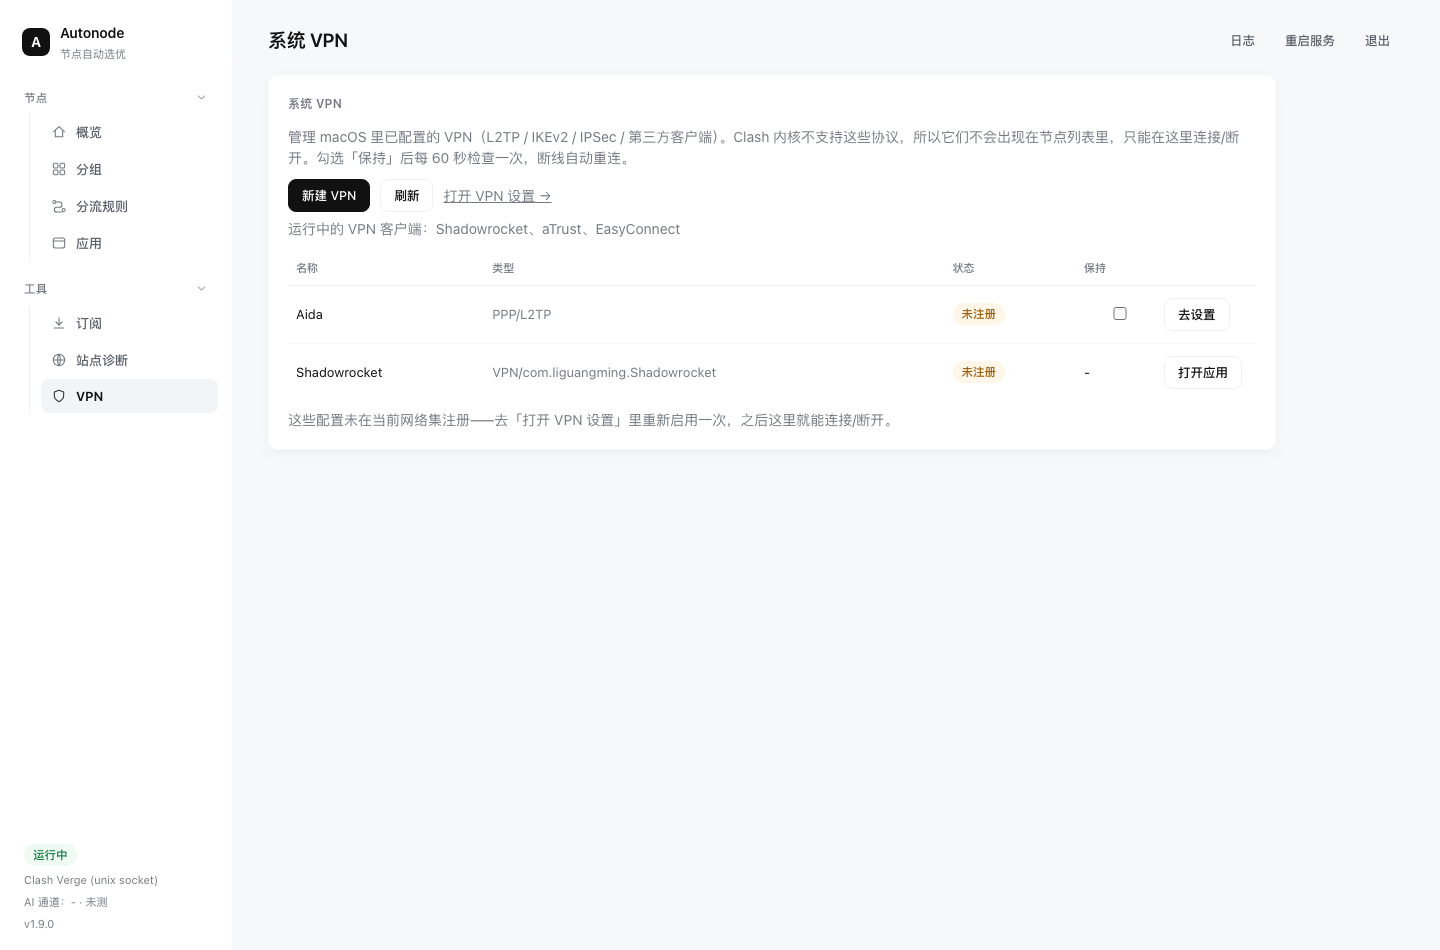
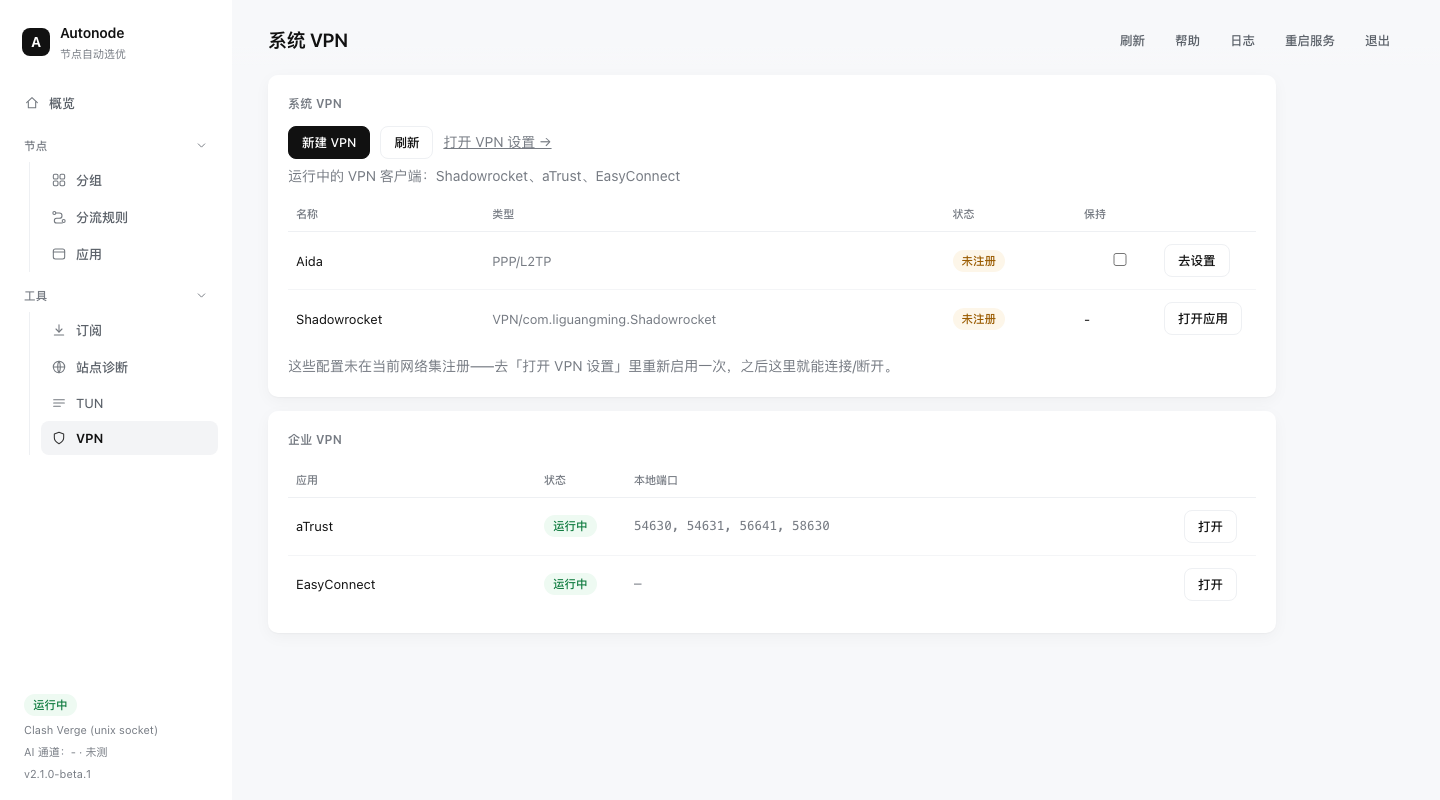
feat(beta): 企业 VPN 状态感知（aTrust / EasyConnect / FortiClient）

diff --git a/autonode.py b/autonode.py
@@ -40,7 +40,7 @@ import webbrowser
 from datetime import datetime
 from http.server import BaseHTTPRequestHandler, ThreadingHTTPServer
 
-VERSION = "2.1.0-beta.1"
+VERSION = "2.1.0-beta.2"
 
 BASE_DIR = os.path.expanduser("~/.config/autonode")
 CONFIG_FILE = os.path.join(BASE_DIR, "config.json")
@@ -598,6 +598,50 @@ def controller_alive(cfg):
         return True
     except Exception:
         return False
+
+
+ENTERPRISE_VPNS = [
+    {"name": "aTrust", "key": "atrust", "bundle": "com.electron.atrust",
+     "path": "/Applications/aTrust.app", "proc": "atrust"},
+    {"name": "EasyConnect", "key": "easyconnect", "bundle": "com.sangfor.Easyconnect",
+     "path": "/Applications/EasyConnect.app", "proc": "easyconnect"},
+    {"name": "FortiClient", "key": "forticlient", "bundle": "com.fortinet.FortiClient",
+     "path": "/Applications/FortiClient.app", "proc": "forticlient"},
+]
+
+
+def _listening_ports(proc_hint):
+    try:
+        out = subprocess.run(["lsof", "-nP", "-iTCP", "-sTCP:LISTEN"],
+                             capture_output=True, text=True, timeout=10).stdout
+    except Exception:
+        return []
+    ports = set()
+    for line in out.splitlines()[1:]:
+        parts = line.split()
+        if len(parts) < 9 or proc_hint not in parts[0].lower():
+            continue
+        port = parts[8].rsplit(":", 1)[-1]
+        if port.isdigit():
+            ports.add(int(port))
+    return sorted(ports)
+
+
+def enterprise_vpns():
+    """已安装的企业 VPN 客户端及其运行状态（只做感知，不做登录）。"""
+    clients = [c.lower() for c in _running_vpn_clients()]
+    items = []
+    for app in ENTERPRISE_VPNS:
+        if not os.path.isdir(app["path"]):
+            continue
+        running = app["key"] in clients
+        items.append({
+            "name": app["name"],
+            "bundle": app["bundle"],
+            "running": running,
+            "ports": _listening_ports(app["proc"]) if running else [],
+        })
+    return items
 
 
 def _active_vpn_name():
@@ -2177,6 +2221,12 @@ pre{background:#f7f8fa;border-radius:10px;padding:14px;max-height:60vh;overflow:
     </table>
     <div class="muted" id="vpn-msg" style="margin-top:8px"></div>
   </div>
+
+  <div class="card" id="ent-card" hidden>
+    <h2>企业 VPN</h2>
+    <table><thead><tr><th>应用</th><th style="width:90px">状态</th><th>本地端口</th><th style="width:80px"></th></tr></thead>
+    <tbody id="ent-body"></tbody></table>
+  </div>
 </section>
 
 <div class="modal" id="askmodal" hidden>
@@ -2202,6 +2252,7 @@ pre{background:#f7f8fa;border-radius:10px;padding:14px;max-height:60vh;overflow:
       <h3>订阅</h3><p>粘贴订阅链接，先校验可访问性，再交给客户端导入。</p>
       <h3>站点诊断</h3><p>只在你点击时运行：串行测试哪些节点能打开目标站点，避免并发触发风控。</p>
       <h3>VPN</h3><p>系统配置型 VPN 可直接连接/断开，并可勾选「保持」每 60 秒检查、断线重连。Shadowrocket / aTrust 这类 Network Extension 应用只能识别状态并打开客户端，无法由本工具开关。</p>
+      <h3>企业 VPN</h3><p>aTrust / EasyConnect / FortiClient 只做运行状态与本地端口感知，登录与连接需在客户端内完成；它们建的是系统级隧道，优先级高于 Clash 规则。</p>
       <h3>应用</h3><p>有 Clash 时按进程显示实时连接与出口；无 Clash 时退化为系统连接统计（只有连接数，没有流量字节）。</p>
     </div>
   </div>
@@ -2751,11 +2802,25 @@ function loadVpns(){
       tun.textContent = bits.join(' · ');
     }
 
+    var ents = d.enterprise || [];
+    var entCard = el('ent-card');
+    if(entCard){
+      entCard.hidden = !ents.length;
+      if(ents.length){
+        el('ent-body').innerHTML = ents.map(function(a){
+          var q = String(a.name).replace(/&/g,'&amp;').replace(/"/g,'&quot;');
+          var b = String(a.bundle || '').replace(/"/g,'&quot;');
+          return '<tr><td>'+a.name+'</td>'
+            + '<td><span class="badge '+(a.running?'ok':'')+'">'+(a.running?'运行中':'未运行')+'</span></td>'
+            + '<td class="mono muted">'+((a.ports||[]).join(', ')||'—')+'</td>'
+            + '<td><button data-vpn-open data-bundle="'+b+'" data-name="'+q+'">打开</button></td></tr>';
+        }).join('');
+      }
+    }
+
     var msg = el('vpn-msg');
     if(msg) msg.textContent = (d.platform && d.platform !== 'Darwin')
-      ? ('当前平台 ' + d.platform + ' 暂不支持')
-      : ((d.vpns||[]).length && (d.vpns||[]).every(function(v){ return v.status === 'Unknown'; })
-          ? '这些配置未在当前网络集注册——去「打开 VPN 设置」里重新启用一次，之后这里就能连接/断开。' : '');
+      ? ('当前平台 ' + d.platform + ' 暂不支持') : '';
   }).catch(function(){});
 }
 
@@ -3547,6 +3612,7 @@ class Handler(BaseHTTPRequestHandler):
                 "ok": True, "vpns": list_system_vpns(), "platform": platform.system(),
                 "tunnel": _active_tunnel(),
                 "clients": _running_vpn_clients(),
+                "enterprise": enterprise_vpns(),
                 "settings_url": "x-apple.systempreferences:com.apple.NetworkExtensionSettingsUI.NESettingsUIExtension",
                 "keep": eng.cfg.get("vpn_keep") or [],
                 "interval": eng.cfg.get("vpn_interval", 60)}, ensure_ascii=False))
